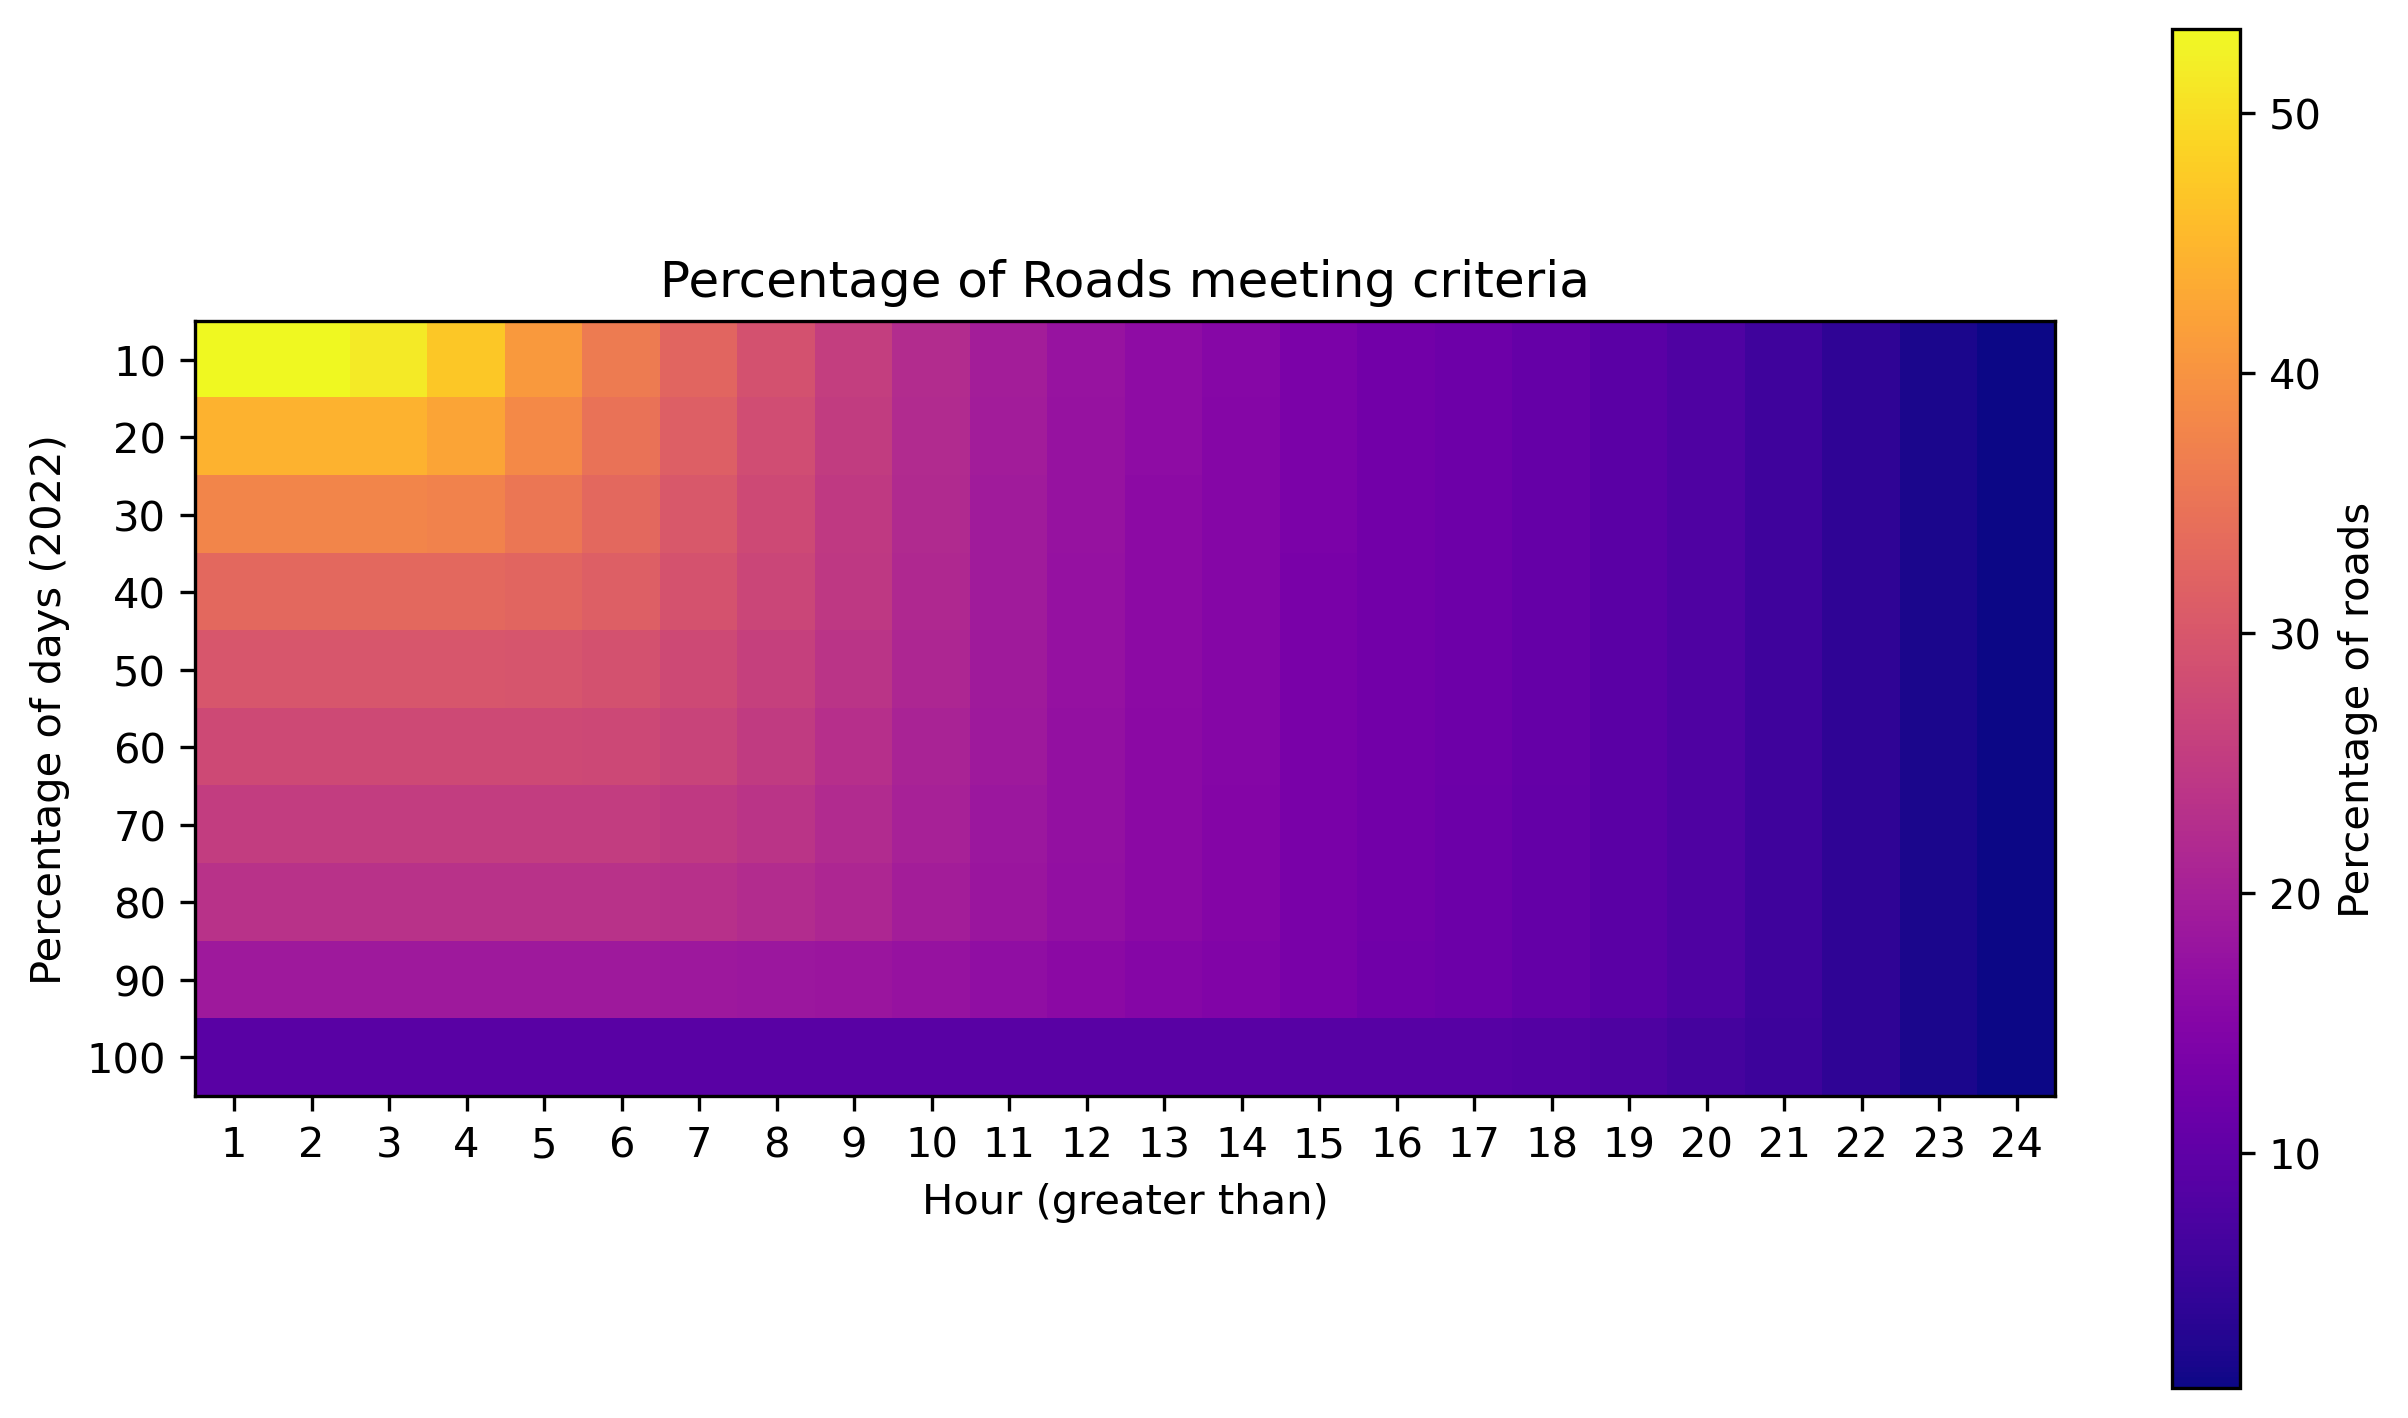
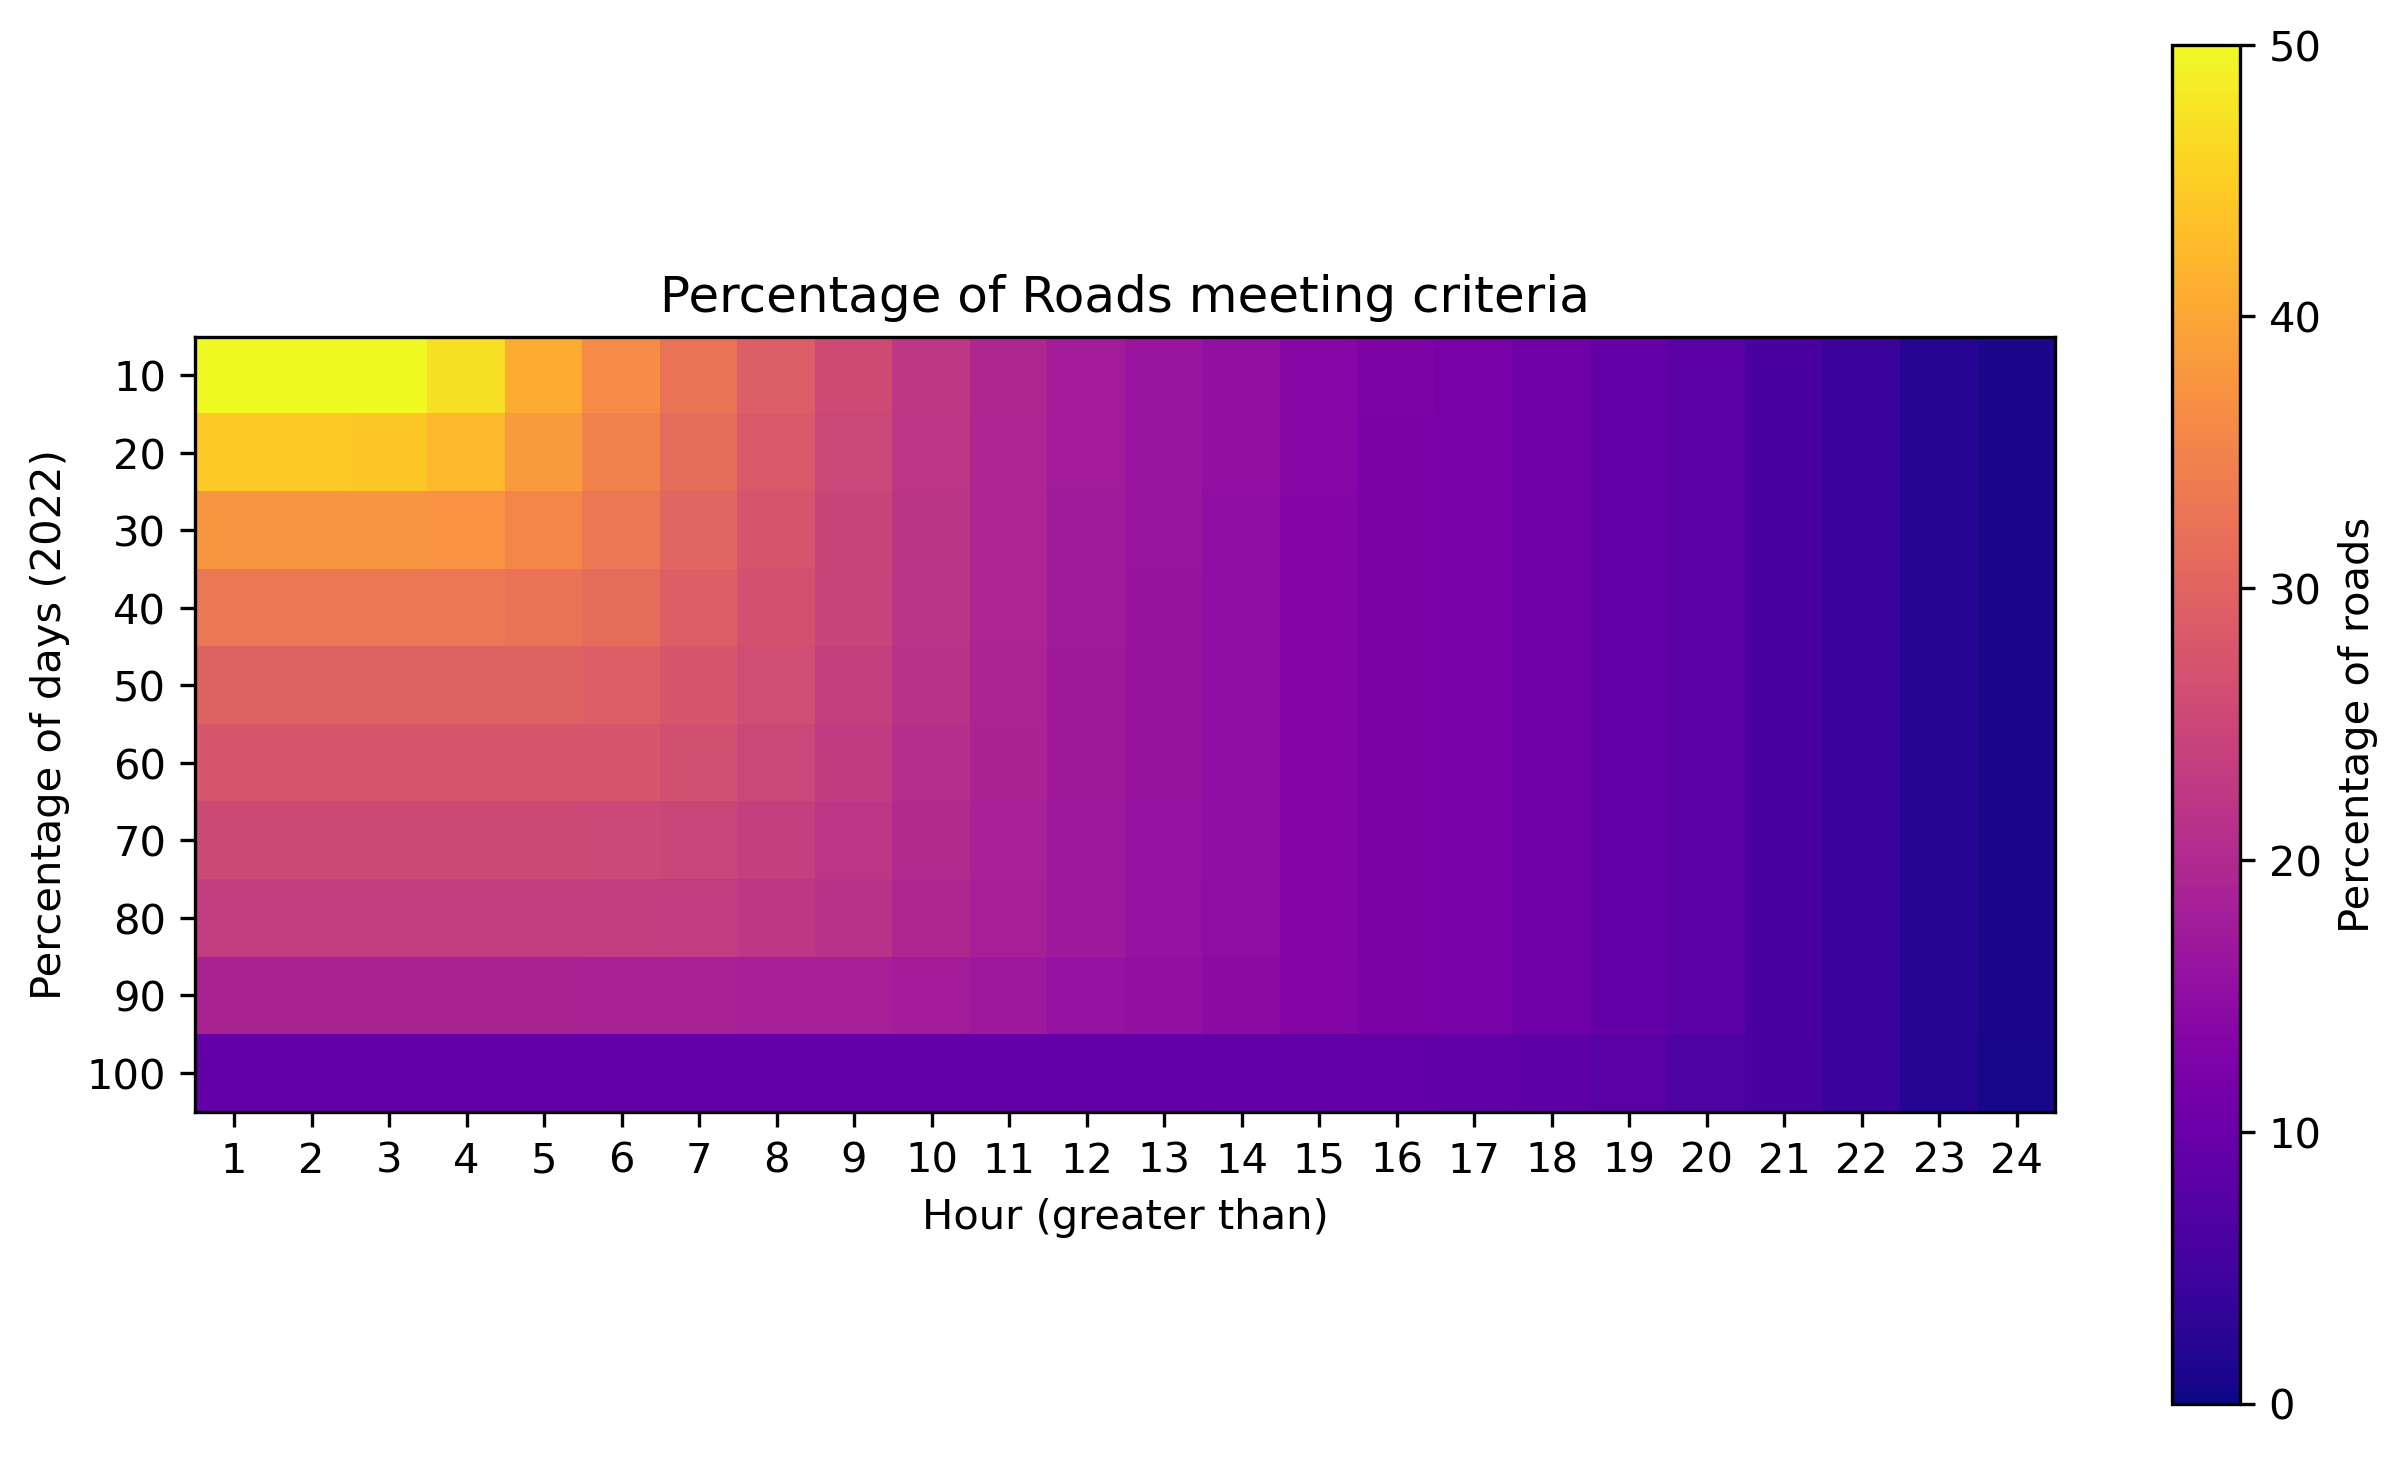
j

diff --git a/Data_Overview.py b/Data_Overview.py
@@ -40,5 +40,7 @@ st.image(f'data/{city.lower()}/id4.png')
 
 st.markdown('Criteria = Percent of roads having data > x% of days in the year and > y% of hours in a day')
 st.image(f'data/{city.lower()}/2021matrix_missing.png')
+st.image(f'data/{city.lower()}/2022matrix_missing.png')
+st.image(f'data/{city.lower()}/2023matrix_missing.png')
 
 
